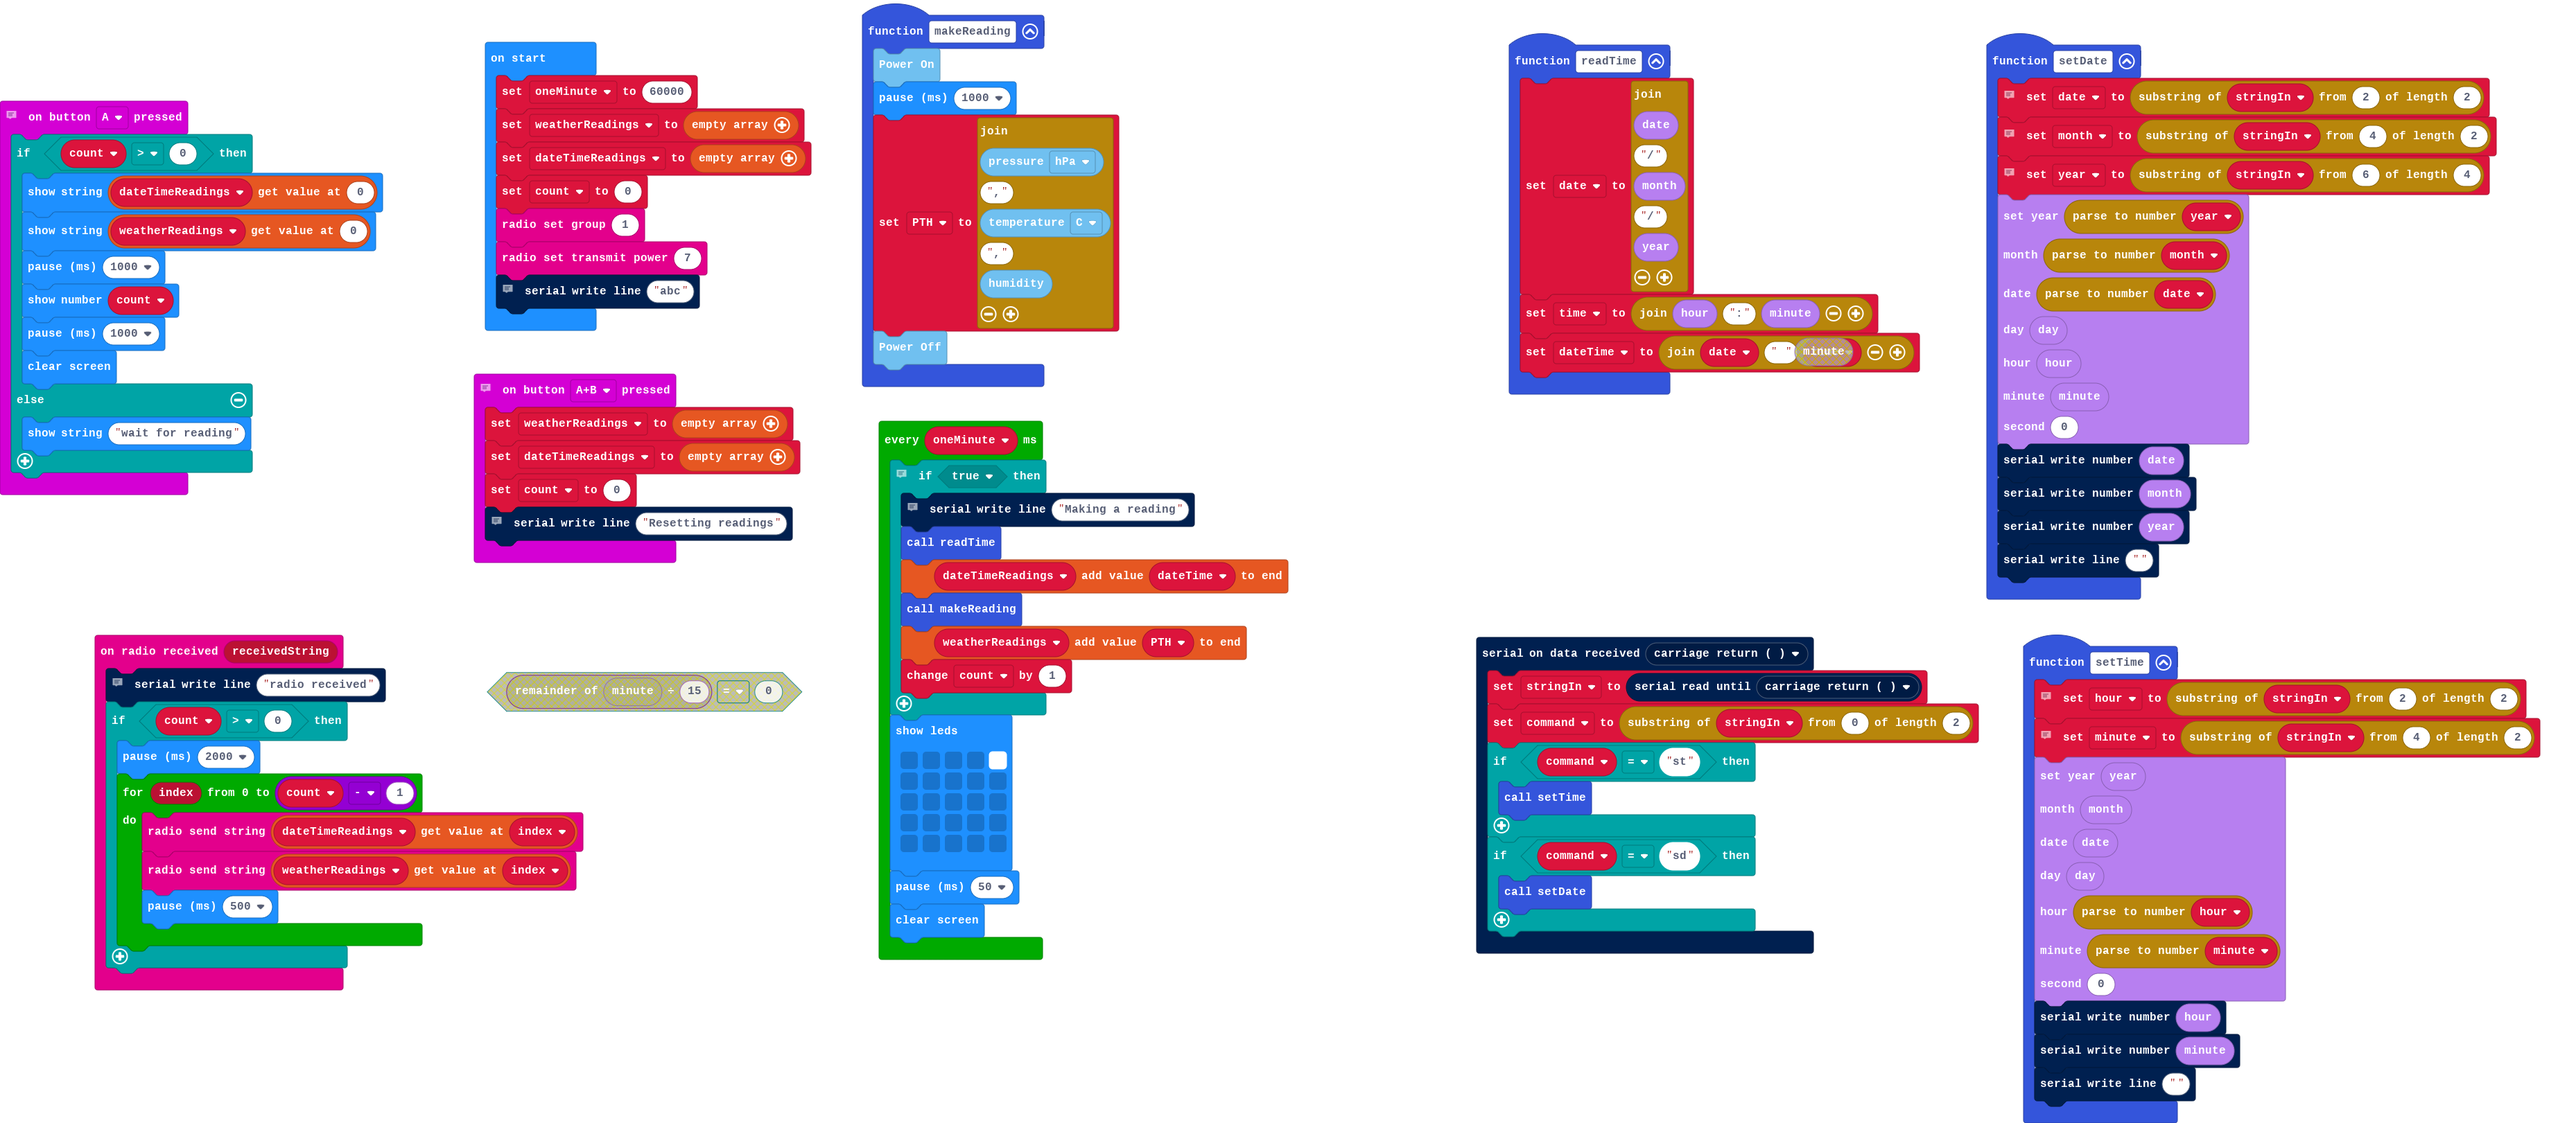
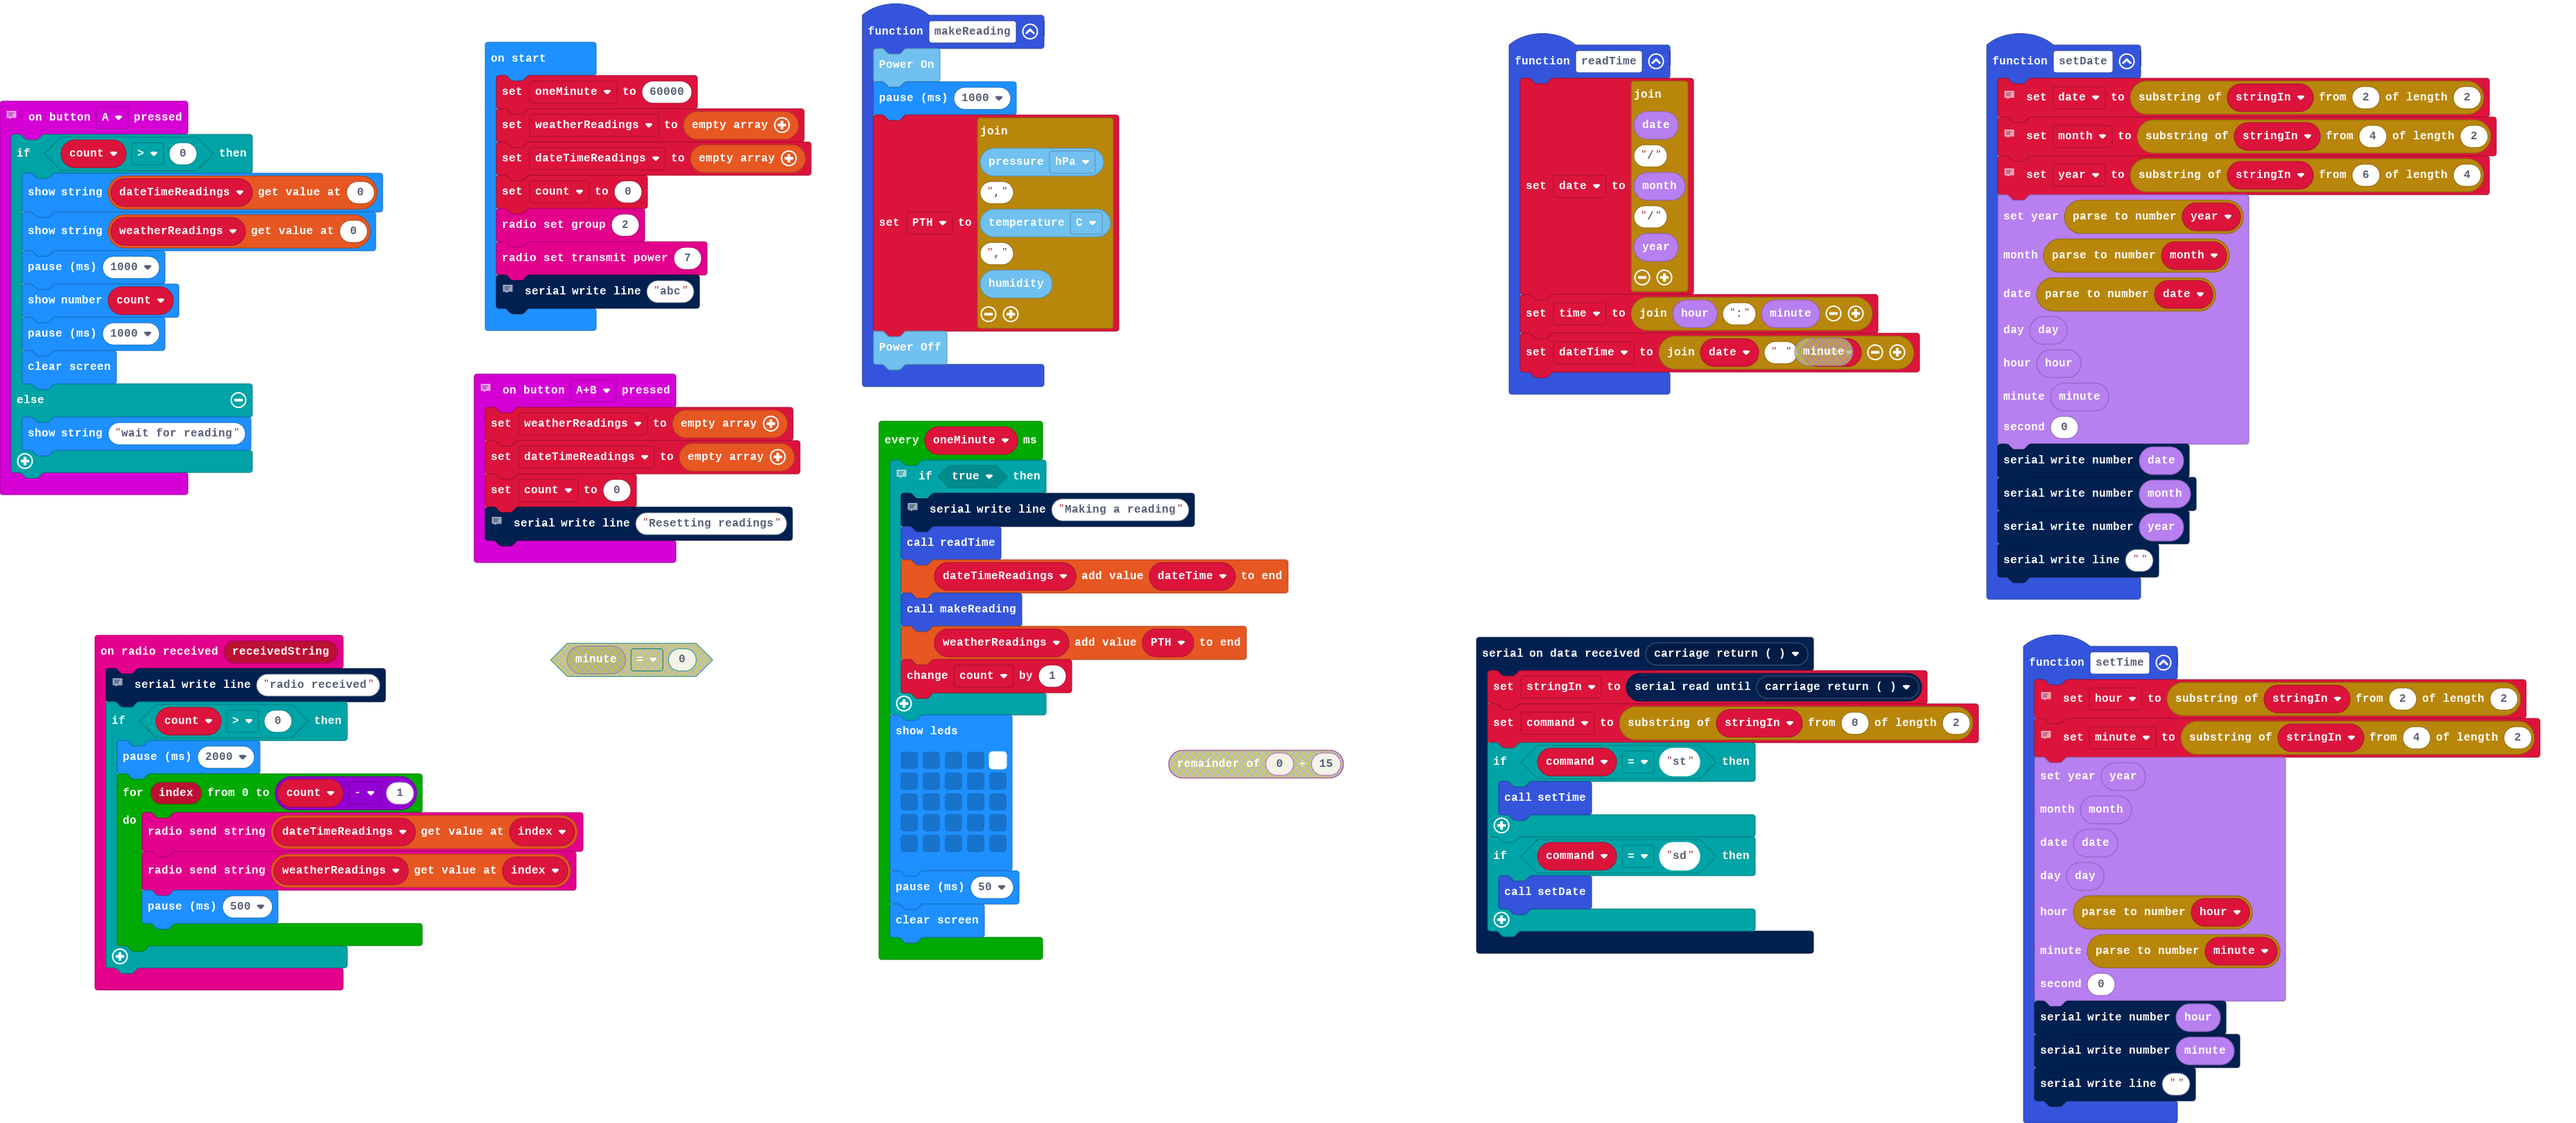
n=2

Changed region(s): [[0.1873, 0.5552, 0.3122, 0.6477], [0.437, 0.6477, 0.5307, 0.7094]]

diff --git a/main.ts b/main.ts
@@ -108,7 +108,7 @@ let oneMinute = 60000
 weatherReadings = []
 dateTimeReadings = []
 count = 0
-radio.setGroup(1)
+radio.setGroup(2)
 radio.setTransmitPower(7)
 // Debug - start serial
 serial.writeLine("abc")
